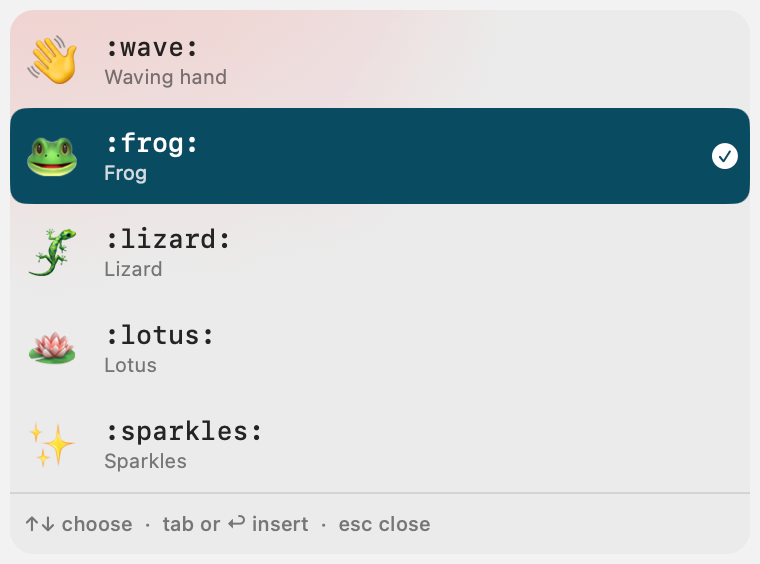
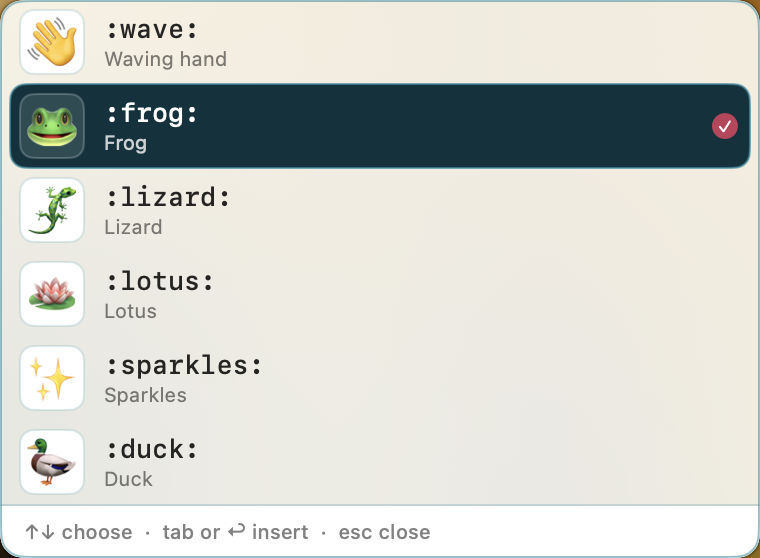
:art: style[runtime]: compact emoji suggestions
Generated-by: Codex

Changed region(s): [[0.0, 0.0, 1.0, 1.0], [0.1211, 0.5484, 0.3026, 0.6093], [0.1211, 0.6398, 0.3632, 0.6703]]

diff --git a/Sources/Runtime/RuntimeSuggestionPanel.swift b/Sources/Runtime/RuntimeSuggestionPanel.swift
@@ -2,6 +2,13 @@ import AppKit
 import Combine
 import SwiftUI
 
+enum RuntimeSuggestionPresentationMetrics {
+    static let maximumVisibleRows = 6
+    static let suggestionRowHeight: CGFloat = 42
+    static let suggestionFooterHeight: CGFloat = 26
+    static let suggestionDividerHeight: CGFloat = 1
+}
+
 struct RuntimeSuggestionRow: Identifiable, Equatable, Sendable {
     let id: EmojiItem.ID
     let glyph: String
@@ -63,8 +70,22 @@ struct RuntimeSuggestionPanelSnapshot: Equatable, Sendable {
         self.acceptsReturn = acceptsReturn
     }
 
+    var visibleRows: [RuntimeSuggestionRow] {
+        guard mode == .suggestions else {
+            return rows
+        }
+        return Array(
+            rows.prefix(
+                RuntimeSuggestionPresentationMetrics.maximumVisibleRows
+            )
+        )
+    }
+
     var selectedRow: RuntimeSuggestionRow? {
-        rows.indices.contains(selectedIndex) ? rows[selectedIndex] : nil
+        let rows = visibleRows
+        return rows.indices.contains(selectedIndex)
+            ? rows[selectedIndex]
+            : nil
     }
 
     var compactInteractionHint: String {
@@ -113,7 +134,7 @@ enum RuntimeVoiceOverAnnouncement {
                 .filter { !$0.isEmpty }
                 .joined(separator: " ")
         }
-        let count = snapshot.rows.count
+        let count = snapshot.visibleRows.count
         let word = count == 1 ? "suggestion" : "suggestions"
         return ["\(count) emoji \(word).", selected]
             .filter { !$0.isEmpty }
@@ -417,10 +438,17 @@ final class RuntimeSuggestionPanelController: RuntimeSuggestionPresenting {
         case .hidden, .committing:
             return CGSize(width: 380, height: 1)
         case .suggestions:
-            let visibleRowCount = min(max(snapshot.rows.count, 1), 5)
+            let visibleRowCount = max(snapshot.visibleRows.count, 1)
             return CGSize(
                 width: 380,
-                height: CGFloat(visibleRowCount * 48 + 80)
+                height:
+                    CGFloat(visibleRowCount)
+                    * RuntimeSuggestionPresentationMetrics
+                        .suggestionRowHeight
+                    + RuntimeSuggestionPresentationMetrics
+                        .suggestionDividerHeight
+                    + RuntimeSuggestionPresentationMetrics
+                        .suggestionFooterHeight
             )
         case .browser:
             return CGSize(
@@ -477,31 +505,6 @@ struct RuntimeSuggestionPanelView: View {
                         .fill(PondDesign.ripple.opacity(0.48))
                         .frame(height: 1)
                 }
-            } else {
-                HStack(spacing: 8) {
-                    Image(systemName: "water.waves")
-                        .foregroundStyle(PondDesign.onDeepWater)
-                    Text("MojiPond")
-                        .font(.subheadline.weight(.semibold))
-                    if let query = snapshot.query, !query.isEmpty {
-                        Text("\(snapshot.trigger.rawValue)\(query)")
-                            .font(.subheadline.monospaced())
-                            .foregroundStyle(
-                                PondDesign.onDeepWater.opacity(0.76)
-                            )
-                            .lineLimit(1)
-                    }
-                    Spacer(minLength: 8)
-                }
-                .foregroundStyle(PondDesign.onDeepWater)
-                .padding(.horizontal, 12)
-                .frame(height: 36)
-                .background(PondDesign.deepWater)
-                .overlay(alignment: .bottom) {
-                    Rectangle()
-                        .fill(PondDesign.ripple.opacity(0.48))
-                        .frame(height: 1)
-                }
             }
 
             if snapshot.mode == .browser {
@@ -527,7 +530,10 @@ struct RuntimeSuggestionPanelView: View {
                     rows
                     Rectangle()
                         .fill(PondDesign.ripple.opacity(0.24))
-                        .frame(height: 1)
+                        .frame(
+                            height: RuntimeSuggestionPresentationMetrics
+                                .suggestionDividerHeight
+                        )
                     Text(snapshot.compactInteractionHint)
                         .font(.caption2)
                         .foregroundStyle(.secondary)
@@ -537,15 +543,17 @@ struct RuntimeSuggestionPanelView: View {
                         .padding(.horizontal, 12)
                         .frame(
                             maxWidth: .infinity,
-                            minHeight: 30,
-                            maxHeight: 30,
+                            minHeight: RuntimeSuggestionPresentationMetrics
+                                .suggestionFooterHeight,
+                            maxHeight: RuntimeSuggestionPresentationMetrics
+                                .suggestionFooterHeight,
                             alignment: .leading
                         )
                         .background(PondDesign.raisedSurface)
                 }
             }
         }
-        .padding(.vertical, 6)
+        .padding(.vertical, snapshot.mode == .browser ? 6 : 0)
         .background {
             RoundedRectangle(cornerRadius: 12, style: .continuous)
                 .fill(
@@ -591,13 +599,20 @@ struct RuntimeSuggestionPanelView: View {
 
     @ViewBuilder
     private var rows: some View {
-        if snapshot.rows.isEmpty {
+        let visibleRows = snapshot.visibleRows
+        if visibleRows.isEmpty {
             Text("No matching emoji")
                 .foregroundStyle(.secondary)
-                .frame(maxWidth: .infinity, minHeight: 48)
+                .frame(
+                    maxWidth: .infinity,
+                    minHeight: snapshot.mode == .browser
+                        ? 44
+                        : RuntimeSuggestionPresentationMetrics
+                            .suggestionRowHeight
+                )
         } else {
             let selectedID = snapshot.selectedRow?.id
-            ForEach(snapshot.rows) { row in
+            ForEach(visibleRows) { row in
                 RuntimeSuggestionRowView(
                     row: row,
                     isSelected: row.id == selectedID,
@@ -679,7 +694,11 @@ private struct RuntimeSuggestionRowView: View {
             }
         }
         .padding(.horizontal, 10)
-        .frame(height: compact ? 44 : 48)
+        .frame(
+            height: compact
+                ? 44
+                : RuntimeSuggestionPresentationMetrics.suggestionRowHeight
+        )
         .foregroundStyle(
             isSelected
                 ? PondDesign.onDeepWater

diff --git a/Tests/Runtime/RuntimeVoiceOverAnnouncementTests.swift b/Tests/Runtime/RuntimeVoiceOverAnnouncementTests.swift
@@ -100,8 +100,24 @@ final class RuntimeVoiceOverAnnouncementTests: XCTestCase {
             selectedIndex: 0,
             query: "wa"
         )
-        let noSuggestions = RuntimeSuggestionPanelSnapshot(
+        let sixSuggestions = RuntimeSuggestionPanelSnapshot(
             revision: 3,
+            transactionID: ParserTransactionID(rawValue: 1),
+            mode: .suggestions,
+            rows: Array(repeating: row, count: 6),
+            selectedIndex: 0,
+            query: "wa"
+        )
+        let overflowingSuggestions = RuntimeSuggestionPanelSnapshot(
+            revision: 4,
+            transactionID: ParserTransactionID(rawValue: 1),
+            mode: .suggestions,
+            rows: Array(repeating: row, count: 7),
+            selectedIndex: 0,
+            query: "wa"
+        )
+        let noSuggestions = RuntimeSuggestionPanelSnapshot(
+            revision: 5,
             transactionID: ParserTransactionID(rawValue: 1),
             mode: .suggestions,
             rows: [],
@@ -109,7 +125,7 @@ final class RuntimeVoiceOverAnnouncementTests: XCTestCase {
             query: "zzzz"
         )
         let browser = RuntimeSuggestionPanelSnapshot(
-            revision: 4,
+            revision: 6,
             transactionID: ParserTransactionID(rawValue: 2),
             mode: .browser,
             rows: [row],
@@ -121,19 +137,38 @@ final class RuntimeVoiceOverAnnouncementTests: XCTestCase {
             RuntimeSuggestionPanelController.preferredSize(
                 for: oneSuggestion
             ),
-            CGSize(width: 380, height: 128)
+            CGSize(width: 380, height: 69)
         )
         XCTAssertEqual(
             RuntimeSuggestionPanelController.preferredSize(
                 for: fiveSuggestions
             ),
-            CGSize(width: 380, height: 320)
+            CGSize(width: 380, height: 237)
+        )
+        XCTAssertEqual(
+            RuntimeSuggestionPanelController.preferredSize(
+                for: sixSuggestions
+            ),
+            CGSize(width: 380, height: 279)
+        )
+        XCTAssertEqual(
+            RuntimeSuggestionPanelController.preferredSize(
+                for: overflowingSuggestions
+            ),
+            CGSize(width: 380, height: 279)
+        )
+        XCTAssertEqual(overflowingSuggestions.visibleRows.count, 6)
+        XCTAssertEqual(
+            RuntimeVoiceOverAnnouncement.suggestions(
+                overflowingSuggestions
+            ),
+            "6 emoji suggestions. Selected Waving hand, colon wave colon."
         )
         XCTAssertEqual(
             RuntimeSuggestionPanelController.preferredSize(
                 for: noSuggestions
             ),
-            CGSize(width: 380, height: 128)
+            CGSize(width: 380, height: 69)
         )
         XCTAssertEqual(
             RuntimeSuggestionPanelController.preferredSize(

diff --git a/UITests/MojiPond/MojiPondUITests.swift b/UITests/MojiPond/MojiPondUITests.swift
@@ -550,6 +550,24 @@ final class MojiPondUITests: XCTestCase {
             matchingText.waitForExistence(timeout: 5),
             "Expected \(windowTitle) to contain \(expectedText)"
         )
+        if initialScreen == "suggestions" {
+            XCTAssertTrue(
+                window.descendants(matching: .any)[
+                    "Duck, colon duck colon"
+                ].waitForExistence(timeout: 2),
+                "Expected the compact panel to expose a sixth suggestion"
+            )
+            XCTAssertTrue(
+                window.descendants(matching: .any)[
+                    "Up and Down Arrow choose, Tab or Return inserts, Escape closes"
+                ].waitForExistence(timeout: 2),
+                "Expected keyboard guidance to remain in the footer"
+            )
+            XCTAssertFalse(
+                window.staticTexts["MojiPond"].exists,
+                "The suggestion panel should not spend a row on branding"
+            )
+        }
         attachScreen(named: screenshotName, element: window)
     }
 

diff --git a/Sources/Runtime/UnicodeAutocompleteRuntimeWorker.swift b/Sources/Runtime/UnicodeAutocompleteRuntimeWorker.swift
@@ -29,7 +29,8 @@ struct UnicodeAutocompleteRuntimeConfiguration: Equatable, Sendable {
 
     init(
         preferences: MojiPondPreferences = .defaults,
-        suggestionLimit: Int = 5,
+        suggestionLimit: Int =
+            RuntimeSuggestionPresentationMetrics.maximumVisibleRows,
         accessibilitySettleDelayMilliseconds: Int = 12,
         accessibilityRetryLimit: Int = 2,
         mediaSearchDebounceMilliseconds: Int = 140,
@@ -37,7 +38,10 @@ struct UnicodeAutocompleteRuntimeConfiguration: Equatable, Sendable {
         mediaInactivityTimeoutMilliseconds: Int = 8_000
     ) {
         self.preferences = preferences
-        self.suggestionLimit = min(max(1, suggestionLimit), 5)
+        self.suggestionLimit = min(
+            max(1, suggestionLimit),
+            RuntimeSuggestionPresentationMetrics.maximumVisibleRows
+        )
         self.accessibilitySettleDelayMilliseconds = min(
             max(0, accessibilitySettleDelayMilliseconds),
             100

diff --git a/Tests/Runtime/UnicodeAutocompleteRuntimeWorkerTests.swift b/Tests/Runtime/UnicodeAutocompleteRuntimeWorkerTests.swift
@@ -4,6 +4,25 @@ import XCTest
 
 @MainActor
 final class UnicodeAutocompleteRuntimeWorkerTests: XCTestCase {
+    func testSuggestionLimitMatchesVisiblePanelCapacity() {
+        XCTAssertEqual(
+            UnicodeAutocompleteRuntimeConfiguration().suggestionLimit,
+            6
+        )
+        XCTAssertEqual(
+            UnicodeAutocompleteRuntimeConfiguration(
+                suggestionLimit: 99
+            ).suggestionLimit,
+            6
+        )
+        XCTAssertEqual(
+            UnicodeAutocompleteRuntimeConfiguration(
+                suggestionLimit: 0
+            ).suggestionLimit,
+            1
+        )
+    }
+
     func testClosingTokenReplacesExactMatchButNeverPrefix() async throws {
         let exact = try makeHarness(
             items: [emoji(shortcode: "frog", value: "🐸")],

diff --git a/Sources/App/AppDelegate.swift b/Sources/App/AppDelegate.swift
@@ -404,6 +404,12 @@ final class AppDelegate: NSObject, NSApplicationDelegate {
                 glyph: "✨",
                 shortcode: "sparkles",
                 name: "Sparkles"
+            ),
+            RuntimeSuggestionRow(
+                id: "ui-test.duck",
+                glyph: "🦆",
+                shortcode: "duck",
+                name: "Duck"
             )
         ]
         let snapshot = RuntimeSuggestionPanelSnapshot(
